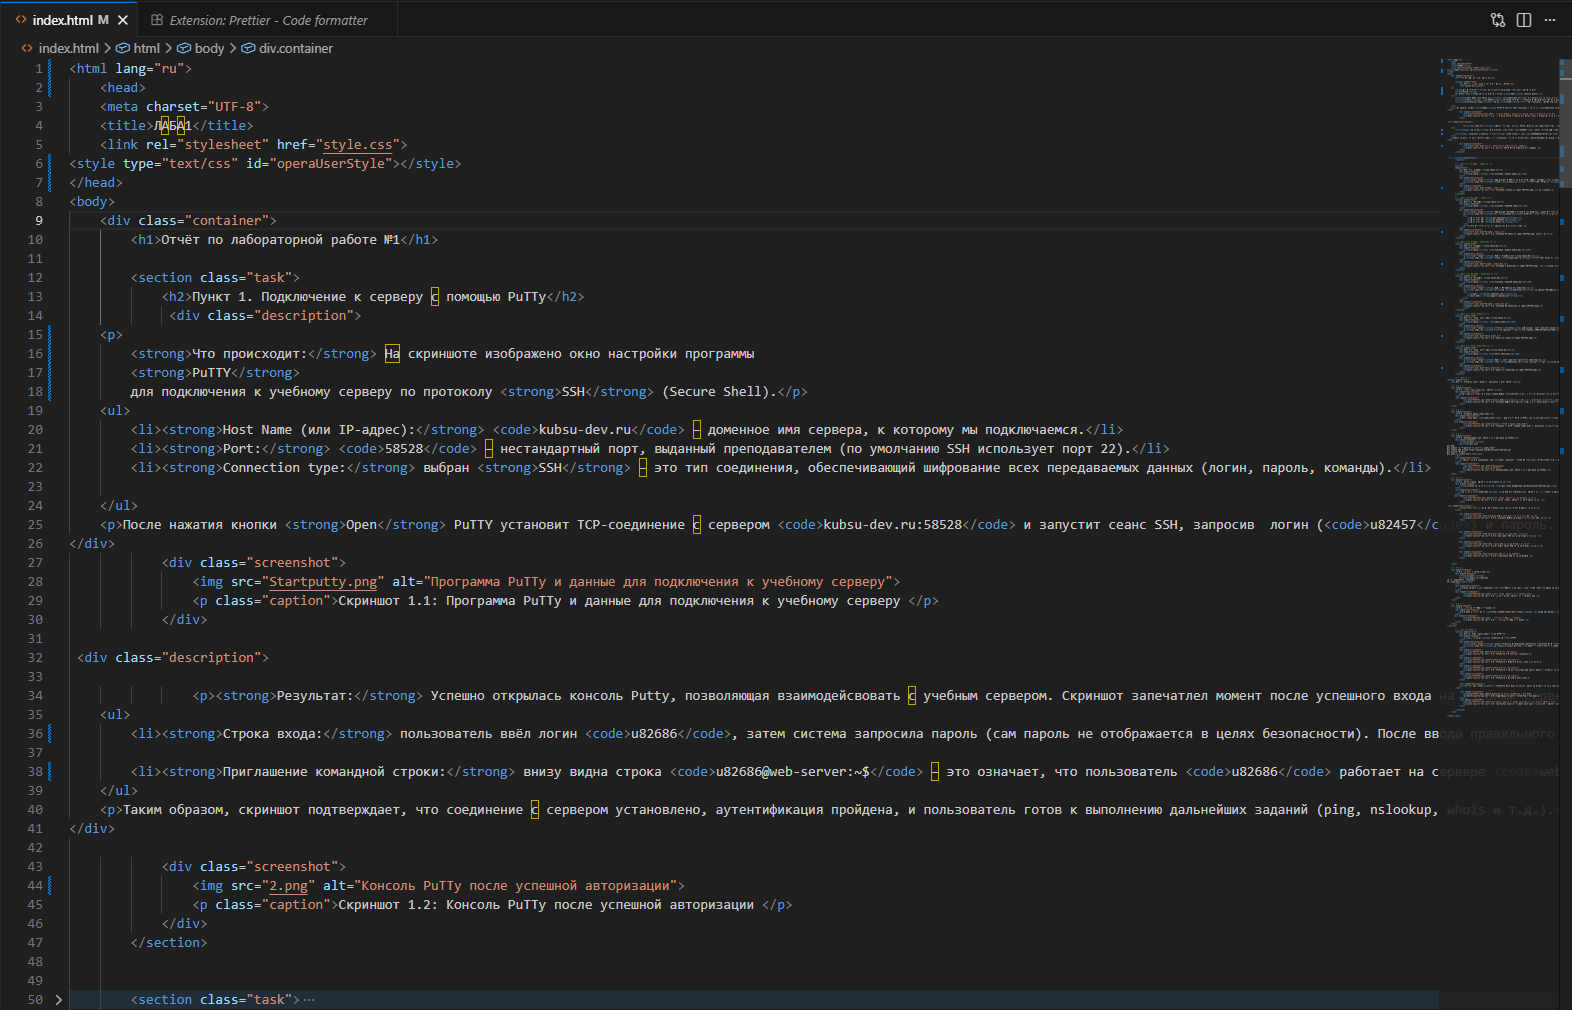
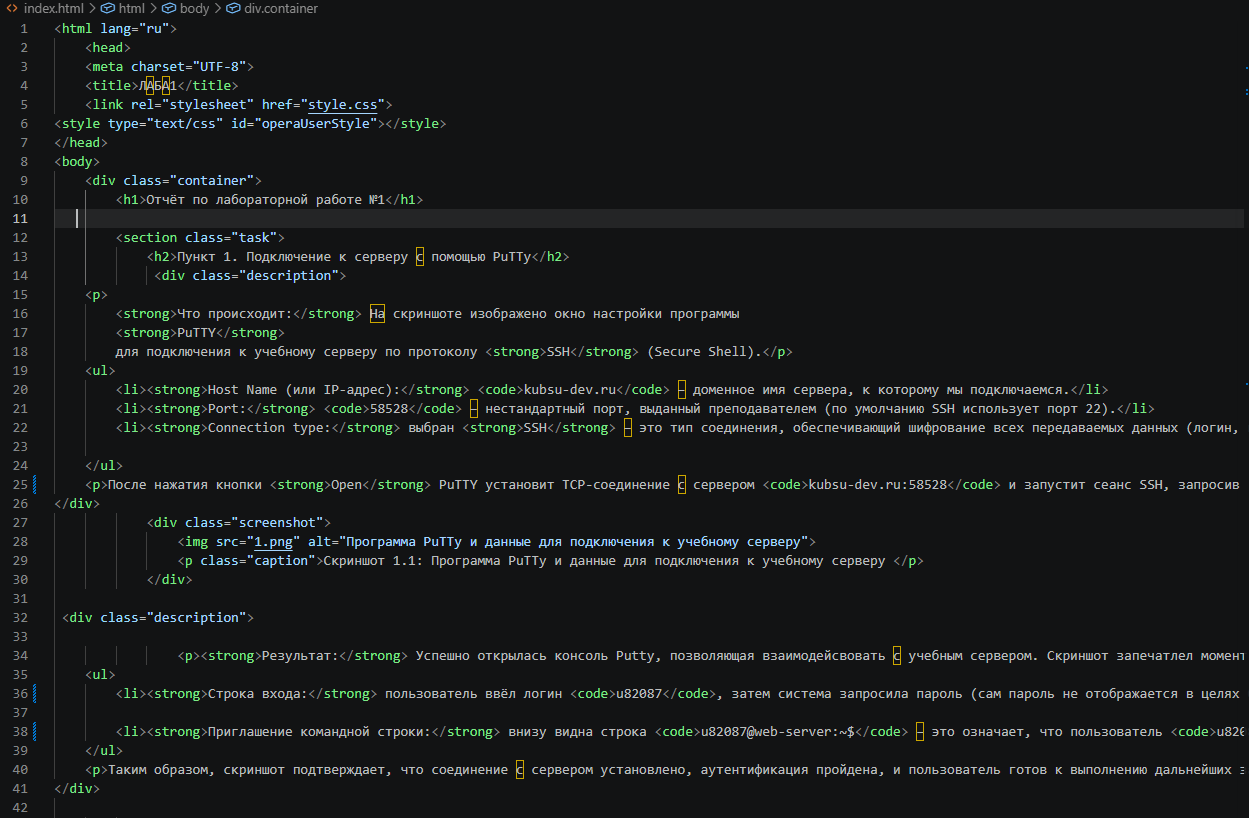
modified:   1.png new file:   10.png modified:   11.png deleted:    12.png modified:   2.png modified:   3.png modified:   4.png modified:   5.png modified:   6.png modified:   7.png modified:   8.png modified:   9.png modified:   index.html new file:   style.css

Changed region(s): [[0.0, 0.0, 1.0, 1.0], [0.9367, 0.0, 0.968, 0.0306]]

diff --git a/index.html b/index.html
@@ -22,7 +22,7 @@
         <li><strong>Connection type:</strong> выбран <strong>SSH</strong> – это тип соединения, обеспечивающий шифрование всех передаваемых данных (логин, пароль, команды).</li>
        
     </ul>
-    <p>После нажатия кнопки <strong>Open</strong> PuTTY установит TCP-соединение с сервером <code>kubsu-dev.ru:58528</code> и запустит сеанс SSH, запросив  логин (<code>u82686</code>) и пароль. Это первый шаг для выполнения всех последующих команд в лабораторной работе.</p>
+    <p>После нажатия кнопки <strong>Open</strong> PuTTY установит TCP-соединение с сервером <code>kubsu-dev.ru:58528</code> и запустит сеанс SSH, запросив  логин (<code>u82087</code>) и пароль. Это первый шаг для выполнения всех последующих команд в лабораторной работе.</p>
 </div>
             <div class="screenshot">
                 <img src="1.png" alt="Программа PuTTy и данные для подключения к учебному серверу">
@@ -33,9 +33,9 @@
                 
                 <p><strong>Результат:</strong> Успешно открылась консоль Putty, позволяющая взаимодейсвовать с учебным сервером. Скриншот запечатлел момент после успешного входа на учебный сервер по SSH. Здесь показан процесс аутентификации и приветственное сообщение системы.</p>
     <ul>
-        <li><strong>Строка входа:</strong> пользователь ввёл логин <code>u82686</code>, затем система запросила пароль (сам пароль не отображается в целях безопасности). После ввода правильного пароля доступ был предоставлен.</li>
+        <li><strong>Строка входа:</strong> пользователь ввёл логин <code>u82087</code>, затем система запросила пароль (сам пароль не отображается в целях безопасности). После ввода правильного пароля доступ был предоставлен.</li>
        
-        <li><strong>Приглашение командной строки:</strong> внизу видна строка <code>u82686@web-server:~$</code> – это означает, что пользователь <code>u82686</code> работает на сервере <code>web-server</code>, текущий каталог — домашний (<code>~</code>), и система ожидает ввода команд.</li>
+        <li><strong>Приглашение командной строки:</strong> внизу видна строка <code>u82087@web-server:~$</code> – это означает, что пользователь <code>u82087</code> работает на сервере <code>web-server</code>, текущий каталог — домашний (<code>~</code>), и система ожидает ввода команд.</li>
     </ul>
     <p>Таким образом, скриншот подтверждает, что соединение с сервером установлено, аутентификация пройдена, и пользователь готов к выполнению дальнейших заданий (ping, nslookup, whois и т.д.).</p>
 </div>
@@ -177,10 +177,10 @@
     <div class="subtask">
         <h3>5.1. Подготовка локального репозитория</h3>
         <div class="description">
-            <p>На локальном компьютере была создана папка <code>Lab1</code>, в которую помещены все скриншоты, сделанные ранее (пункты 1–4), и файл <code>index.html</code> для отчёта.</p>
+            <p>На локальном компьютере была создана папка <code>task1</code>, в которую помещены все скриншоты, сделанные ранее (пункты 1–4), и файл <code>index.html</code> для отчёта.</p>
         </div>
         <div class="screenshot">
-                <img src="26.png" alt="Создание папки на локальном компьюере и размещение скриншотов и главной страницы">
+                <img src="10.png" alt="Создание папки на локальном компьюере и размещение скриншотов и главной страницы">
                 <p class="caption">Скриншот 5.1: Создание папки на локальном компьюере и размещщение скриншотов и главной страницы</p>
             </div>
     </div>
@@ -215,7 +215,7 @@
     <div class="subtask">
         <h3>5.4. Клонирование репозитория на учебный сервер</h3>
         <div class="command">
-            <strong>Команда на сервере:</strong> <code>git clone https://github.com/themisato/Lab1.git</code>
+            <strong>Команда на сервере:</strong> <code>git clone https://github.com/Nikita137297/task1.git</code>
         </div>
         <div class="description">
             <p>На сервере <code>kubsu-dev.ru</code> через SSH был выполнен клон репозитория, что создало локальную копию в домашней директории пользователя.</p>
@@ -261,12 +261,12 @@
         <h3>5.5. Перенос в каталог www</h3>
         <div class="command">
             <strong>Команды:</strong>
-            <pre><code>mkdir -p ~/www/LAB1
-cp -r ~/Lab1/* ~/www/LAB1/
-ls ~/www/LAB1/</code></pre>
+            <pre><code>mkdir -p ~/www/TASK1
+cp -r ~/task1/* ~/www/TASK1/
+ls ~/www/TASK1/</code></pre>
         </div>
         <div class="description">
-            <p>Создан каталог <code>~/www/LAB1</code> (доступный через веб), в него скопированы все файлы из клонированного репозитория. Команда <code>ls</code> подтверждает наличие файлов.</p>
+            <p>Создан каталог <code>~/www/TASK1</code> (доступный через веб), в него скопированы все файлы из клонированного репозитория. Команда <code>ls</code> подтверждает наличие файлов.</p>
         </div>
         <div class="screenshot">
                 <img src="18.png" alt="Перенос клона репозитория в каталог www">
@@ -278,7 +278,7 @@ ls ~/www/LAB1/</code></pre>
     <div class="subtask">
         <h3>5.6. Проверка доступа к странице:</h3>
         <div class="description">
-            <p>В браузере открыт адрес <code>http://u82686.kubsu-dev.ru/LAB1/</code&gt;. Страница загрузилась, все скриншоты отображаются корректно, что подтверждает успешное размещение.</p>
+            <p>В браузере открыт адрес <code>http://u82087.kubsu-dev.ru/TASK1/</code&gt;. Страница загрузилась, все скриншоты отображаются корректно, что подтверждает успешное размещение.</p>
         </div>
        <div class="screenshot">
                 <img src="19.png" alt=" Проверка доступа к странице">
@@ -294,7 +294,7 @@ ls ~/www/LAB1/</code></pre>
                 <strong>Программа:</strong> FileZilla (протокол SFTP)
             </div>
             <div class="description">
-                <p><strong>Что делает:</strong> Клиент FileZilla устанавливает защищённое соединение по протоколу SFTP с сервером <code>kubsu-dev.ru</code> (порт YYYYY) под логином u82686. После подключения файлы из каталога <code>~/www/LAB1</code> были скопированы на локальный компьютер.</p>
+                <p><strong>Что делает:</strong> Клиент FileZilla устанавливает защищённое соединение по протоколу SFTP с сервером <code>kubsu-dev.ru</code> (порт YYYYY) под логином u82087. После подключения файлы из каталога <code>~/www/TASK1</code> были скопированы на локальный компьютер.</p>
                 <p><strong>Результат:</strong> На локальной машине появились все файлы отчёта(скриншоты и index.html), что подтверждает скриншот интерфейса FileZilla.</p>
             </div>
             <div class="screenshot">

diff --git a/style.css b/style.css
@@ -1,0 +1,92 @@
+/* style.css */
+body {
+  font-family: "Segoe UI", Tahoma, Geneva, Verdana, sans-serif;
+  line-height: 1.6;
+  color: #333;
+  background-color: #f9f9f9;
+  margin: 0;
+  padding: 20px;
+}
+
+.container {
+  max-width: 1200px;
+  margin: 0 auto;
+  background-color: #fff;
+  padding: 30px;
+  box-shadow: 0 0 15px rgba(0, 0, 0, 0.1);
+  border-radius: 8px;
+}
+
+h1 {
+  color: #2c3e50;
+  border-bottom: 3px solid #b11871;
+  padding-bottom: 10px;
+  margin-top: 0;
+}
+
+h2 {
+  color: #34495e;
+  margin-top: 0;
+  border-left: 5px solid #c2357c;
+  padding-left: 15px;
+}
+
+.task {
+  margin-bottom: 40px;
+  padding: 20px;
+  background-color: #fcfcfc;
+  border: 1px solid #e0e0e0;
+  border-radius: 5px;
+}
+
+.command {
+  background-color: #f0f0f0;
+  padding: 10px 15px;
+  border-radius: 5px;
+  font-family: "Courier New", monospace;
+  margin-bottom: 15px;
+  border-left: 4px solid #801b52;
+}
+
+.description {
+  background-color: #fff;
+  padding: 15px;
+  border-radius: 5px;
+  margin-bottom: 15px;
+}
+
+.description p {
+  margin: 5px 0;
+}
+
+.description ul {
+  margin: 5px 0 0 20px;
+}
+
+.screenshot {
+  text-align: center;
+}
+
+.screenshot img {
+  max-width: 100%;
+  height: auto;
+  border: 1px solid #ddd;
+  border-radius: 4px;
+  padding: 5px;
+  box-shadow: 0 2px 8px rgba(0, 0, 0, 0.1);
+}
+
+.caption {
+  font-style: italic;
+  color: #7f8c8d;
+  margin-top: 8px;
+  font-size: 0.9em;
+}
+
+code {
+  background-color: #e7f3ff;
+  padding: 2px 5px;
+  border-radius: 3px;
+  font-family: "Courier New", monospace;
+  color: #c54e40;
+}
